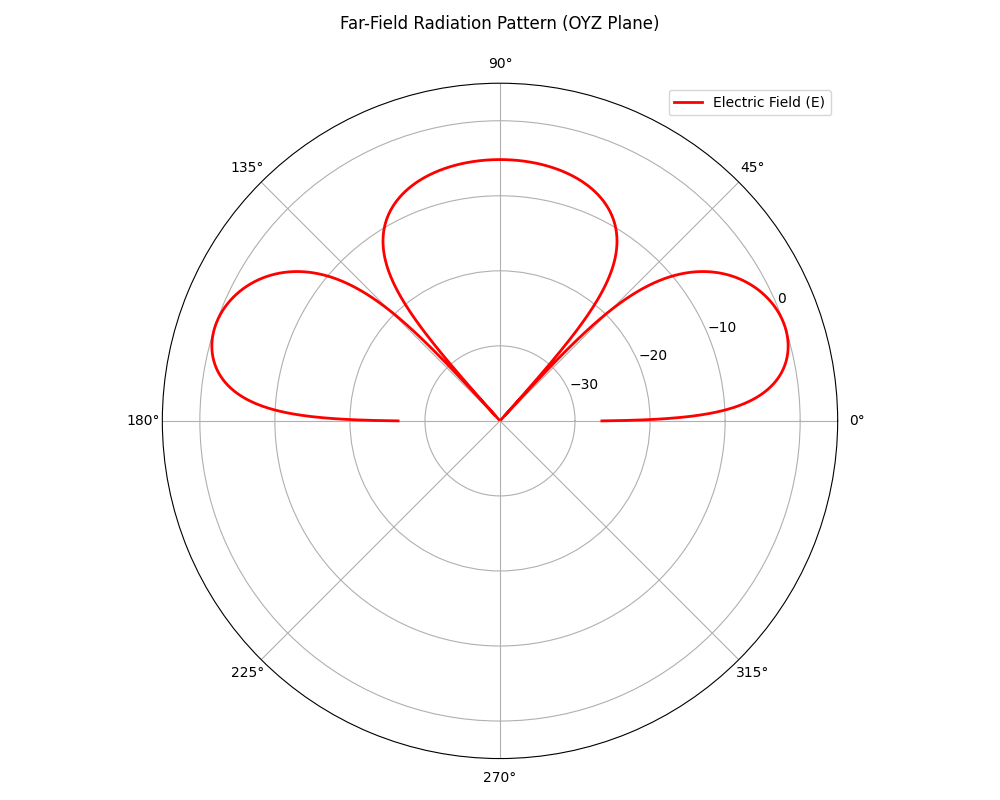
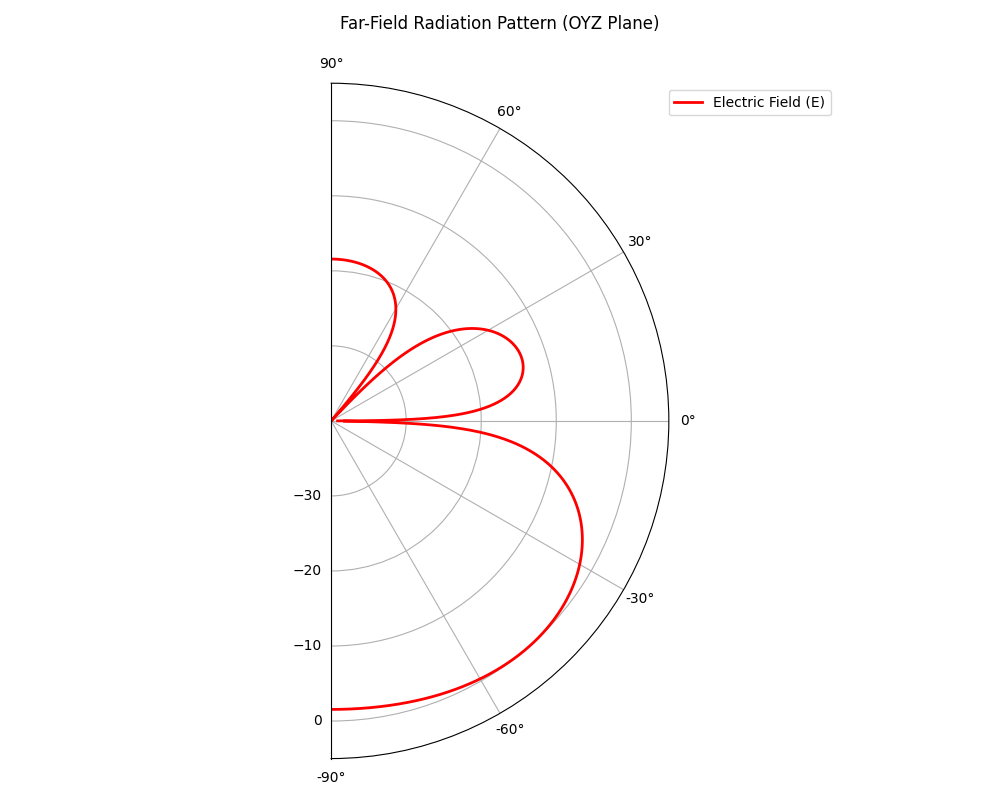
Add files via upload

diff --git a/Projet_sat/Reconstitution_Floquet.py b/Projet_sat/Reconstitution_Floquet.py
@@ -392,7 +392,7 @@ def plot_far_field_radiated_OYZ(field_source, mask, resolution=100, num_angles=1
     currents = calculate_currents_on_mask(field_source, mask)
 
     # Define observation angles in the OYZ plane (phi = 90°)
-    theta_linspace = np.linspace(0, np.pi, num_angles)
+    theta_linspace = np.linspace(-np.pi/2,np.pi/2, num_angles)
 
     # Calculate all observation points
     y = d_observation * np.cos(theta_linspace)
@@ -430,6 +430,8 @@ def plot_far_field_radiated_OYZ(field_source, mask, resolution=100, num_angles=1
     # Set plot limits and labels
     ax.set_rticks([-30, -20, -10, 0])  # dB scale
     ax.set_rlim([-40, 5])
+    ax.set_thetamin(-90)
+    ax.set_thetamax(90)
     ax.set_title('Far-Field Radiation Pattern (OYZ Plane)', pad=20)
     ax.grid(True)
     ax.legend(loc='upper right')
@@ -447,7 +449,7 @@ def plot_far_field_cartesian(field_source, mask, resolution=100, num_angles=180)
     currents = calculate_currents_on_mask(field_source, mask)
 
     # Define observation angles in the OYZ plane (phi = 90°)
-    theta_linspace = np.linspace(0, np.pi, num_angles)
+    theta_linspace = np.linspace(-np.pi/2,np.pi/2, num_angles)
 
     # Calculate all observation points for OYZ plane
     y = d_observation * np.cos(theta_linspace)
@@ -486,7 +488,7 @@ def plot_far_field_cartesian(field_source, mask, resolution=100, num_angles=180)
     ax.plot(theta_degrees, E_db, 'r-', linewidth=2, label='Electric Field (E)')
 
     # Set plot limits and labels
-    ax.set_xlim([0, 180])
+    ax.set_xlim([-90, 90])
     ax.set_ylim([-60, 5])
     ax.set_xlabel('Angle (degrees)', fontsize=12)
     ax.set_ylabel('Magnitude (dB)', fontsize=12)
@@ -534,7 +536,7 @@ def calculate_stacked_array_field(field_source, mask, num_blocks, resolution=100
     currents = calculate_currents_on_mask(field_source, mask)
     
     # Define observation angles in the OYZ plane (phi = 90°)
-    theta_linspace = np.linspace(0, np.pi, num_angles)
+    theta_linspace = np.linspace(-np.pi/2,np.pi/2, num_angles)
     theta_degrees = np.rad2deg(theta_linspace)
     
     # Calculate all observation points for OYZ plane
@@ -608,6 +610,8 @@ def plot_stacked_array_field(total_E_fields, M, theta_degrees, plot_type='polar'
         # Set plot limits and labels
         ax.set_rticks([-30, -20, -10, 0])  # dB scale
         ax.set_rlim([-40, 5])
+        ax.set_thetamin(-90)
+        ax.set_thetamax(90)
         ax.set_title('Far-Field Radiation Pattern (OYZ Plane) - Stacked Array', pad=20)
         ax.grid(True)
         ax.legend(loc='upper right')
@@ -620,7 +624,7 @@ def plot_stacked_array_field(total_E_fields, M, theta_degrees, plot_type='polar'
         ax.plot(theta_degrees, E_db, 'r-', linewidth=2, label='Electric Field (E)')
         
         # Set plot limits and labels
-        ax.set_xlim([0, 180])
+        ax.set_xlim([-90, 90])
         ax.set_ylim([-60, 5])
         ax.set_xlabel('Angle (degrees)', fontsize=12)
         ax.set_ylabel('Magnitude (dB)', fontsize=12)
